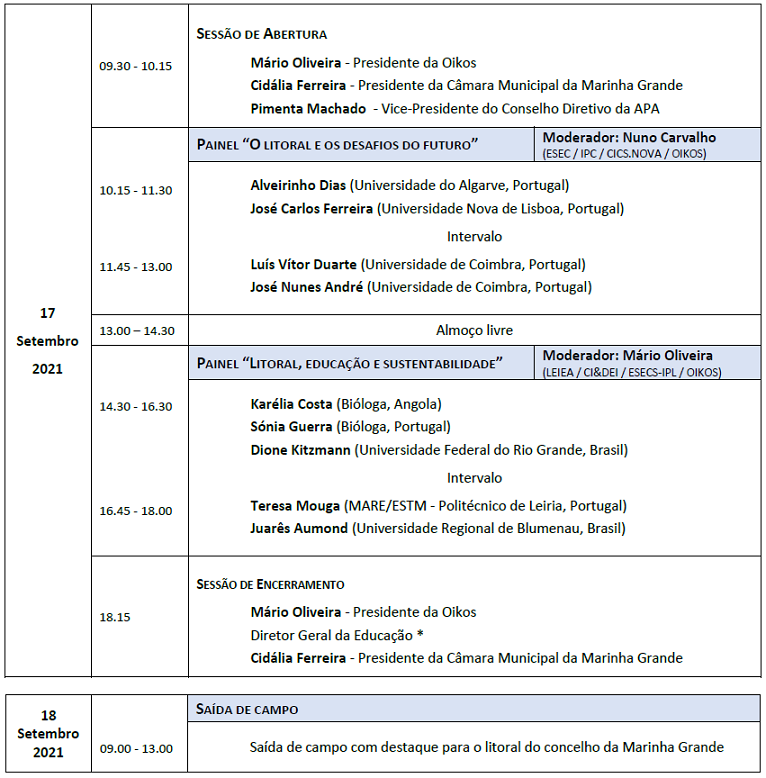
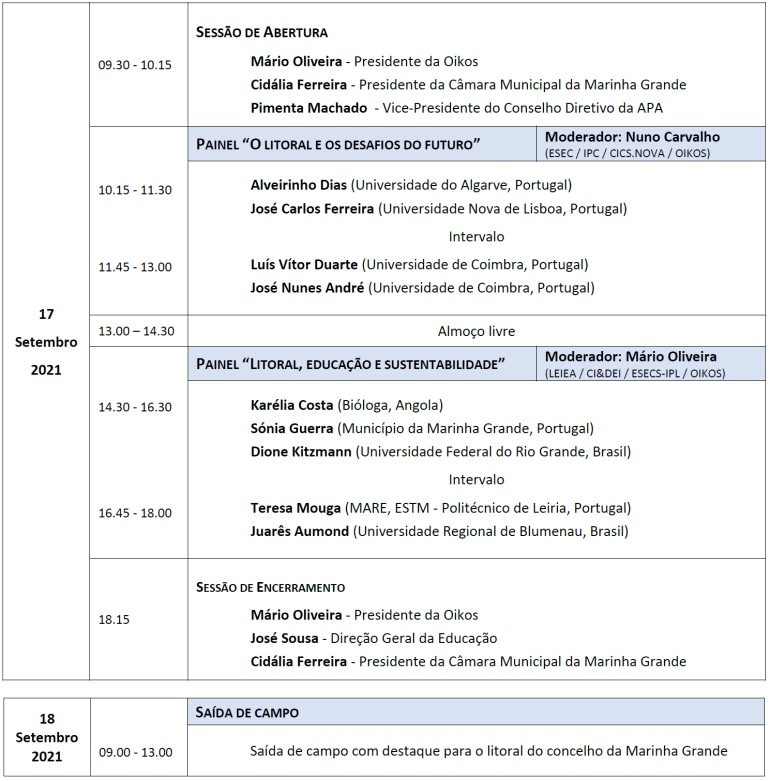
updates

Changed region(s): [[0.0, 0.0, 1.0, 1.0]]

diff --git a/index.html b/index.html
@@ -111,7 +111,11 @@ http://www.templatemo.com/tm-501-neaty
 							O I Congresso Internacional Ambiente e Sustentabilidade – “O Litoral e os desafios do futuro” já se encontra acreditado pelo CCPFC como curso de formação (18 horas), com o registo de acreditação nº CCPFC/ACC-112267/21.
 							A formação será assegurada através do LeiriMar.<br />
 							<br />
-							A frequência da formação implica a inscrição no congresso. <b>Para se inscrever na formação clique <a href="https://forms.gle/AcU4tdHJNqRst8es9">aqui</a>.</b><br />
+							A frequência da formação implica a inscrição no congresso, pelo que será necessário preencher dois formulários de inscrição.<br />
+							<b>
+							Preencha a ficha de inscrição no congresso <a href="https://docs.google.com/forms/d/e/1FAIpQLScNwQRfZnz_lhEDQRU2PLKSVYZhJ1m5_bXUocYBeA-T24Ht9Q/viewform">aqui</a>.<br />
+							Para se inscrever na formação clique <a href="https://forms.gle/AcU4tdHJNqRst8es9">aqui</a>.<br />
+							</b>
 							<br />
 							<h4>Destinatários da formação de professores</h4>
 							Educadores de Infância, Professores dos Ensinos Básico, Secundário e Professores de Educação Especial, pertencentes ao sistema de ensino português.<br />
@@ -133,6 +137,11 @@ http://www.templatemo.com/tm-501-neaty
 							&bull; Olga Santos<br />
 							&bull; Raquel Delgado<br />
 							&bull; Sérgio Duarte<br />
+							&bull; Sofia Quaresma<br />
+							&bull; Célia Guerra<br />
+							&bull; Pedro Jerónimo<br />
+							&bull; Cristina Simões<br />
+							&bull; Sónia Guerra<br />
 							<br />
 							<h3>Comissão de Honra</h3>
 							&bull;<b> Araceli Serantes </b>– Universidade da Corunha, Galiza<br />
@@ -182,7 +191,6 @@ http://www.templatemo.com/tm-501-neaty
 								<h2 class="tm-blue-text tm-section-title tm-margin-b-45">Programa Geral</h2>
 							</header>
 							<img src="./images/programa.png" /><br />
-							<small>* - A Confirmar</small>
 							<br />
 							<br />
 							<header>
@@ -311,7 +319,7 @@ http://www.templatemo.com/tm-501-neaty
 									<img src="images/people/sonia-guerra.jpg" alt="Image" class="img-fluid">
 									<br /><br />
 									<h4>Mestre Sónia Guerra</h4>
-									<b>Bióloga, Portugal</b>
+									<b>Município da Marinha Grande, Portugal</b>
 								</div>
 							</div>
 							<hr />
@@ -442,8 +450,10 @@ http://www.templatemo.com/tm-501-neaty
 	</div> <!-- container -->
 
 	<footer>
+		<span>ORGANIZAÇÃO</span>
 		<img src="./images/logo-oikos.png" class="org" />
 		<img src="./images/logo-cmmg.png" class="org" />
+		<span>APOIOS</span>
 		<img src="./images/logo-apa.png" />
 		<img src="./images/logo-dge.png" />
 		<img src="./images/logo-esecs.png" />

diff --git a/css/templatemo-style.css b/css/templatemo-style.css
@@ -149,9 +149,10 @@ textarea:-ms-input-placeholder {
 #org img { margin: 0px 50px 25px 0px; }
 
 body { padding-bottom: 60px; }
-body>footer { width: 100%; height: 60px; background-color: white; border-top: 2px solid #006599; position: fixed; bottom: 0;}
+body>footer { width: 100%; height: 60px; background-color: white; border-top: 2px solid #006599; position: fixed; bottom: 0; }
+body>footer>span { font-weight: bold; font-size: 16px; position: absolute; top: -23px; color: white; padding-left: 10px; }
 body>footer>img { margin: 10px; height: 40px; width: auto; }
-body>footer>img.org { margin: 10px; }
+body>footer>img:nth-child(3) { margin-right: 35px; }
 
 @media (max-width: 1870px) { body { padding-bottom: 120px; } body>footer { height: 120px; } }
 @media (max-width: 1005px) { body { padding-bottom: 180px; } body>footer { height: 180px; } }
